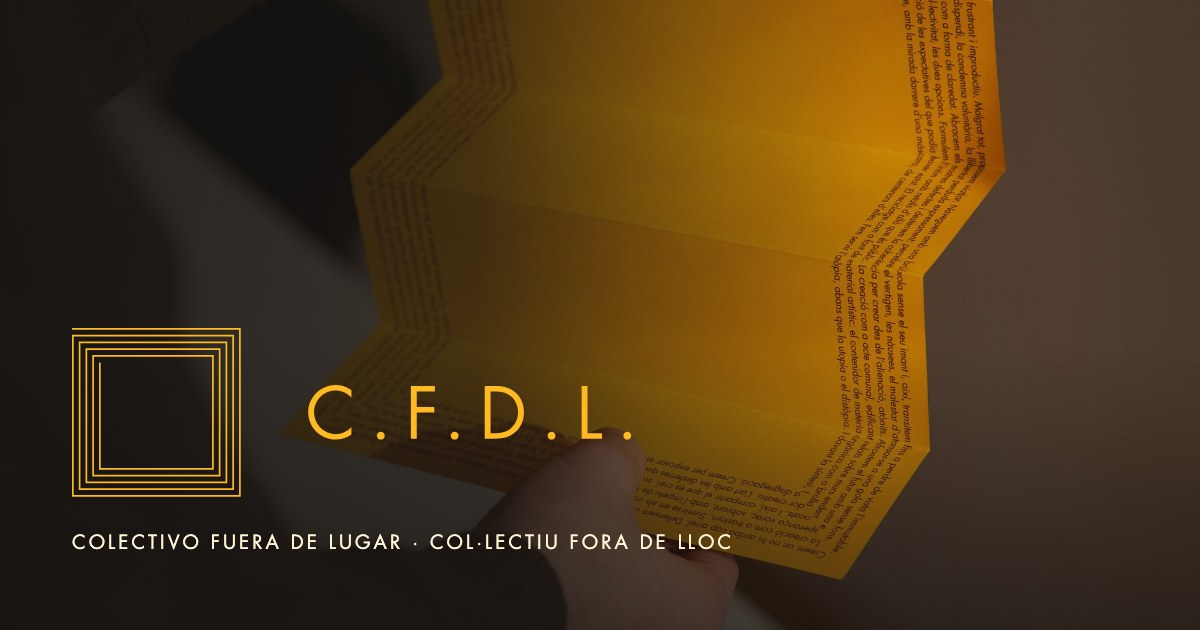
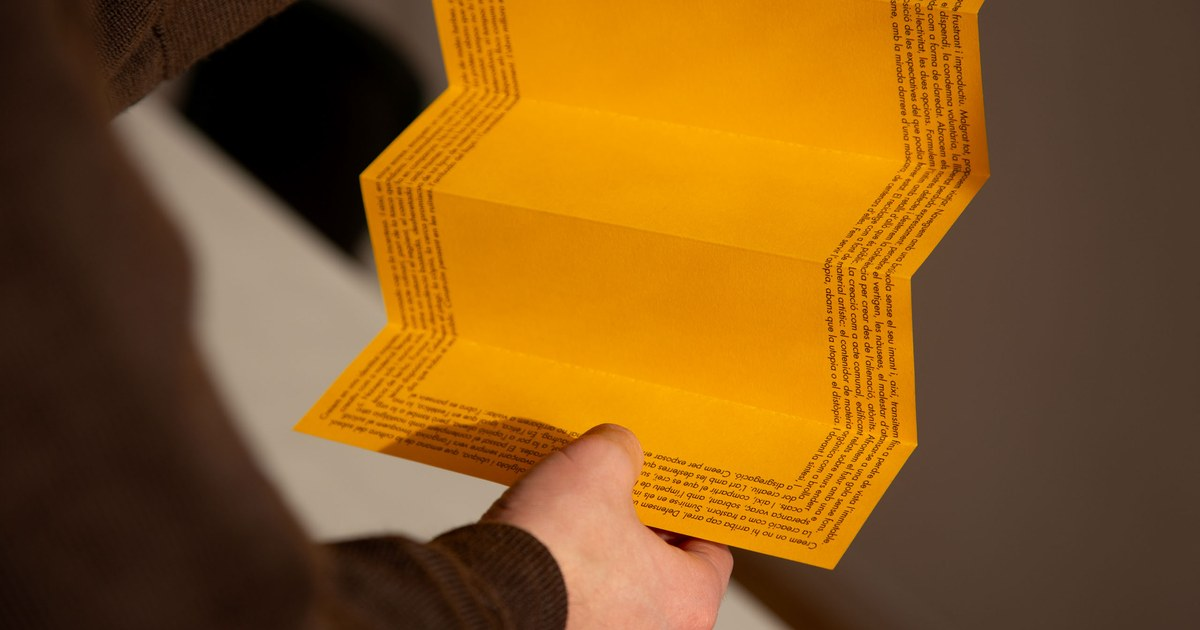
Vista previa social — foto pura del manifiesto; «Manifiesto, Eventos y Galería»
- Imagen: la foto del manifiesto tal cual, recortada a 1200×630, sin velo,
  sin logotipo y sin texto. Texto alternativo acorde.
- Portada: la descripción pasa a «Manifiesto, Eventos y Galería» (og:,
  twitter: y description), sin «Creación extemporánea…».

diff --git a/docs/index.html b/docs/index.html
@@ -4,23 +4,23 @@
     <meta charset="UTF-8">
     <meta name="viewport" content="width=device-width, initial-scale=1.0">
     <title>C.F.D.L. Colectivo Fuera de Lugar — Col·lectiu Fora de Lloc</title>
-    <meta name="description" content="C.F.D.L. — Colectivo Fuera de Lugar / Col·lectiu Fora de Lloc. Creación extemporánea, políglota y ubicua: manifiesto, eventos y galería.">
+    <meta name="description" content="C.F.D.L. Colectivo Fuera de Lugar — Col·lectiu Fora de Lloc. Manifiesto, Eventos y Galería.">
     <meta name="theme-color" content="#171513">
     <meta property="og:type" content="website">
     <meta property="og:locale" content="es_ES">
     <meta property="og:site_name" content="C.F.D.L.">
     <meta property="og:title" content="C.F.D.L. Colectivo Fuera de Lugar — Col·lectiu Fora de Lloc">
-    <meta property="og:description" content="Creación extemporánea, políglota y ubicua: manifiesto, eventos y galería.">
+    <meta property="og:description" content="Manifiesto, Eventos y Galería">
     <meta property="og:url" content="https://cfdl.site/">
     <meta property="og:image" content="https://cfdl.site/assets/images/social.jpg">
     <meta property="og:image:width" content="1200">
     <meta property="og:image:height" content="630">
-    <meta property="og:image:alt" content="El manifiesto de C.F.D.L. impreso en papel ámbar, doblado, con el logotipo del colectivo.">
+    <meta property="og:image:alt" content="El manifiesto de C.F.D.L. impreso en papel ámbar, doblado, entre luz y sombra.">
     <meta name="twitter:card" content="summary_large_image">
     <meta name="twitter:title" content="C.F.D.L. Colectivo Fuera de Lugar — Col·lectiu Fora de Lloc">
-    <meta name="twitter:description" content="Creación extemporánea, políglota y ubicua: manifiesto, eventos y galería.">
+    <meta name="twitter:description" content="Manifiesto, Eventos y Galería">
     <meta name="twitter:image" content="https://cfdl.site/assets/images/social.jpg">
-    <meta name="twitter:image:alt" content="El manifiesto de C.F.D.L. impreso en papel ámbar, doblado, con el logotipo del colectivo.">
+    <meta name="twitter:image:alt" content="El manifiesto de C.F.D.L. impreso en papel ámbar, doblado, entre luz y sombra.">
     <link rel="icon" type="image/png" sizes="32x32" href="assets/logo/favicon-32.png">
     <link rel="icon" type="image/png" sizes="180x180" href="assets/logo/favicon-180.png">
     <link rel="apple-touch-icon" href="assets/logo/favicon-180.png">

diff --git a/docs/proyectos.html b/docs/proyectos.html
@@ -16,12 +16,12 @@
     <meta property="og:image" content="https://cfdl.site/assets/images/social.jpg">
     <meta property="og:image:width" content="1200">
     <meta property="og:image:height" content="630">
-    <meta property="og:image:alt" content="El manifiesto de C.F.D.L. impreso en papel ámbar, doblado, con el logotipo del colectivo.">
+    <meta property="og:image:alt" content="El manifiesto de C.F.D.L. impreso en papel ámbar, doblado, entre luz y sombra.">
     <meta name="twitter:card" content="summary_large_image">
     <meta name="twitter:title" content="C.F.D.L. — Archivo generativo">
     <meta name="twitter:description" content="Piezas generativas producidas a partir del manifiesto: sistemas que crecen, se fracturan, derivan y se pierden.">
     <meta name="twitter:image" content="https://cfdl.site/assets/images/social.jpg">
-    <meta name="twitter:image:alt" content="El manifiesto de C.F.D.L. impreso en papel ámbar, doblado, con el logotipo del colectivo.">
+    <meta name="twitter:image:alt" content="El manifiesto de C.F.D.L. impreso en papel ámbar, doblado, entre luz y sombra.">
     <link rel="icon" type="image/png" sizes="32x32" href="assets/logo/favicon-32.png">
     <link rel="icon" type="image/png" sizes="180x180" href="assets/logo/favicon-180.png">
     <link rel="apple-touch-icon" href="assets/logo/favicon-180.png">

diff --git a/docs/eventos.html b/docs/eventos.html
@@ -15,12 +15,12 @@
     <meta property="og:image" content="https://cfdl.site/assets/images/social.jpg">
     <meta property="og:image:width" content="1200">
     <meta property="og:image:height" content="630">
-    <meta property="og:image:alt" content="El manifiesto de C.F.D.L. impreso en papel ámbar, doblado, con el logotipo del colectivo.">
+    <meta property="og:image:alt" content="El manifiesto de C.F.D.L. impreso en papel ámbar, doblado, entre luz y sombra.">
     <meta name="twitter:card" content="summary_large_image">
     <meta name="twitter:title" content="C.F.D.L. — Eventos">
     <meta name="twitter:description" content="Clubes de lectura, recitales, proyecciones y ciclos: lo que ocurre y lo que ya ocurrió.">
     <meta name="twitter:image" content="https://cfdl.site/assets/images/social.jpg">
-    <meta name="twitter:image:alt" content="El manifiesto de C.F.D.L. impreso en papel ámbar, doblado, con el logotipo del colectivo.">
+    <meta name="twitter:image:alt" content="El manifiesto de C.F.D.L. impreso en papel ámbar, doblado, entre luz y sombra.">
     <link rel="icon" type="image/png" sizes="32x32" href="assets/logo/favicon-32.png">
     <link rel="icon" type="image/png" sizes="180x180" href="assets/logo/favicon-180.png">
     <link rel="apple-touch-icon" href="assets/logo/favicon-180.png">

diff --git a/docs/manifiesto.html b/docs/manifiesto.html
@@ -15,12 +15,12 @@
     <meta property="og:image" content="https://cfdl.site/assets/images/social.jpg">
     <meta property="og:image:width" content="1200">
     <meta property="og:image:height" content="630">
-    <meta property="og:image:alt" content="El manifiesto de C.F.D.L. impreso en papel ámbar, doblado, con el logotipo del colectivo.">
+    <meta property="og:image:alt" content="El manifiesto de C.F.D.L. impreso en papel ámbar, doblado, entre luz y sombra.">
     <meta name="twitter:card" content="summary_large_image">
     <meta name="twitter:title" content="C.F.D.L. — Manifiesto">
     <meta name="twitter:description" content="Manifiesto cambiante y nunca cumplido del Colectivo Fuera de Lugar.">
     <meta name="twitter:image" content="https://cfdl.site/assets/images/social.jpg">
-    <meta name="twitter:image:alt" content="El manifiesto de C.F.D.L. impreso en papel ámbar, doblado, con el logotipo del colectivo.">
+    <meta name="twitter:image:alt" content="El manifiesto de C.F.D.L. impreso en papel ámbar, doblado, entre luz y sombra.">
     <link rel="icon" type="image/png" sizes="32x32" href="assets/logo/favicon-32.png">
     <link rel="icon" type="image/png" sizes="180x180" href="assets/logo/favicon-180.png">
     <link rel="apple-touch-icon" href="assets/logo/favicon-180.png">

diff --git a/docs/galeria.html b/docs/galeria.html
@@ -15,12 +15,12 @@
     <meta property="og:image" content="https://cfdl.site/assets/images/social.jpg">
     <meta property="og:image:width" content="1200">
     <meta property="og:image:height" content="630">
-    <meta property="og:image:alt" content="El manifiesto de C.F.D.L. impreso en papel ámbar, doblado, con el logotipo del colectivo.">
+    <meta property="og:image:alt" content="El manifiesto de C.F.D.L. impreso en papel ámbar, doblado, entre luz y sombra.">
     <meta name="twitter:card" content="summary_large_image">
     <meta name="twitter:title" content="C.F.D.L. — Galería">
     <meta name="twitter:description" content="Encuentros, lecturas y proyecciones del C.F.D.L. en imágenes.">
     <meta name="twitter:image" content="https://cfdl.site/assets/images/social.jpg">
-    <meta name="twitter:image:alt" content="El manifiesto de C.F.D.L. impreso en papel ámbar, doblado, con el logotipo del colectivo.">
+    <meta name="twitter:image:alt" content="El manifiesto de C.F.D.L. impreso en papel ámbar, doblado, entre luz y sombra.">
     <link rel="icon" type="image/png" sizes="32x32" href="assets/logo/favicon-32.png">
     <link rel="icon" type="image/png" sizes="180x180" href="assets/logo/favicon-180.png">
     <link rel="apple-touch-icon" href="assets/logo/favicon-180.png">
